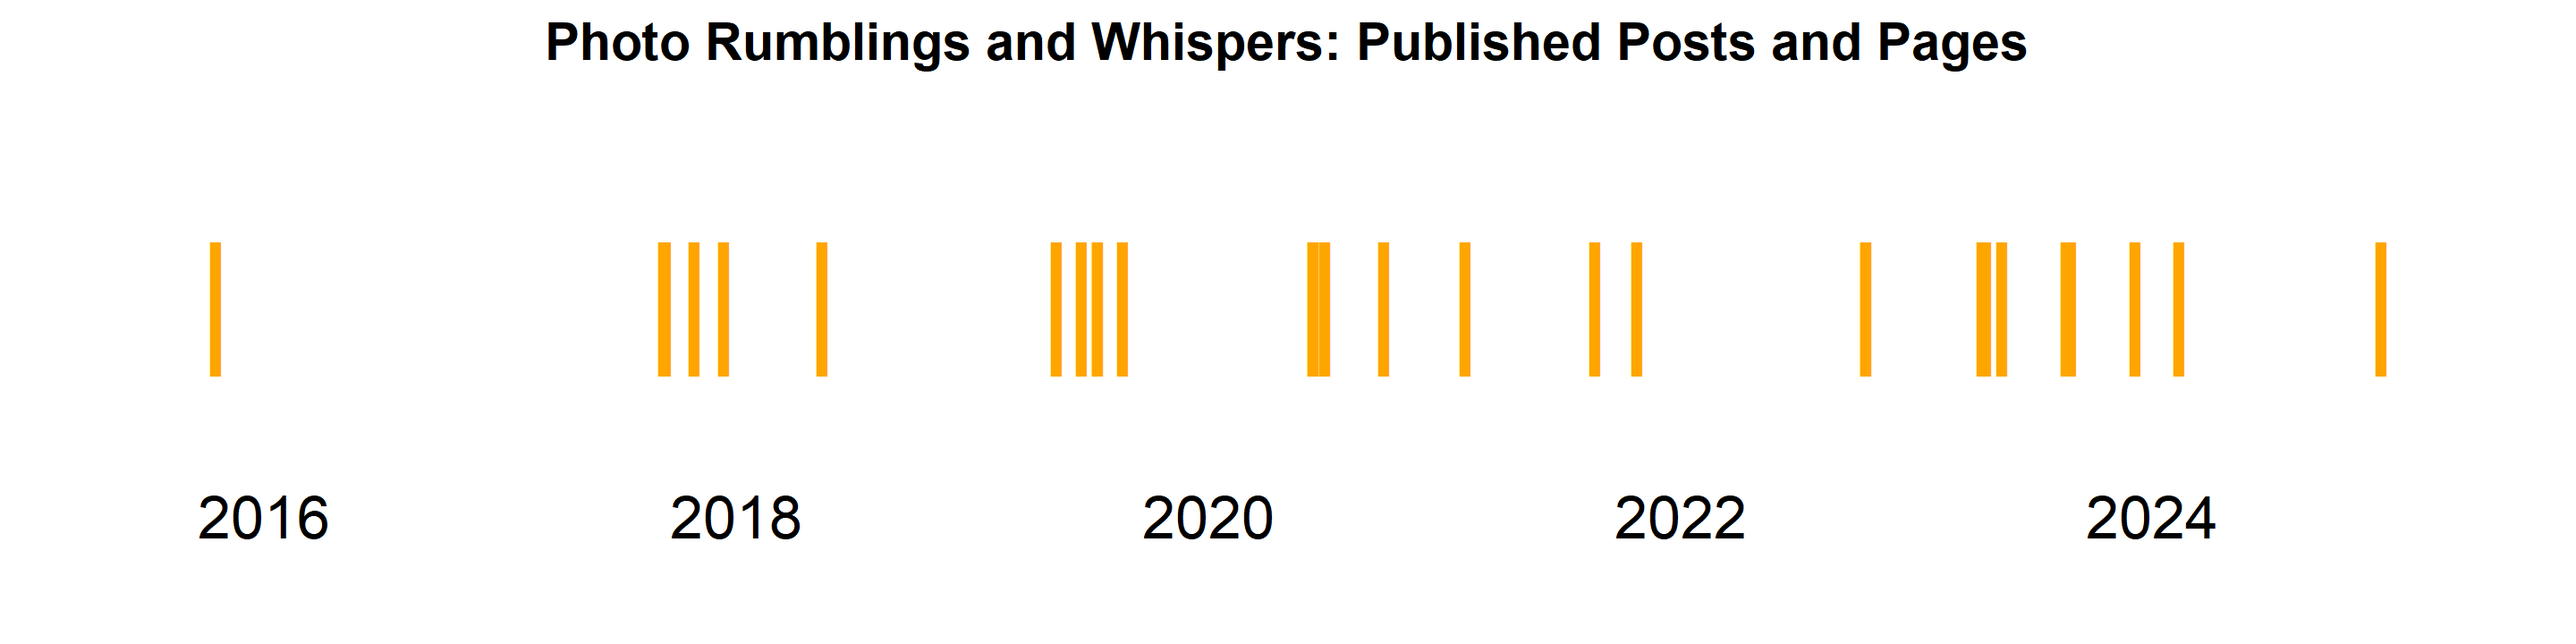
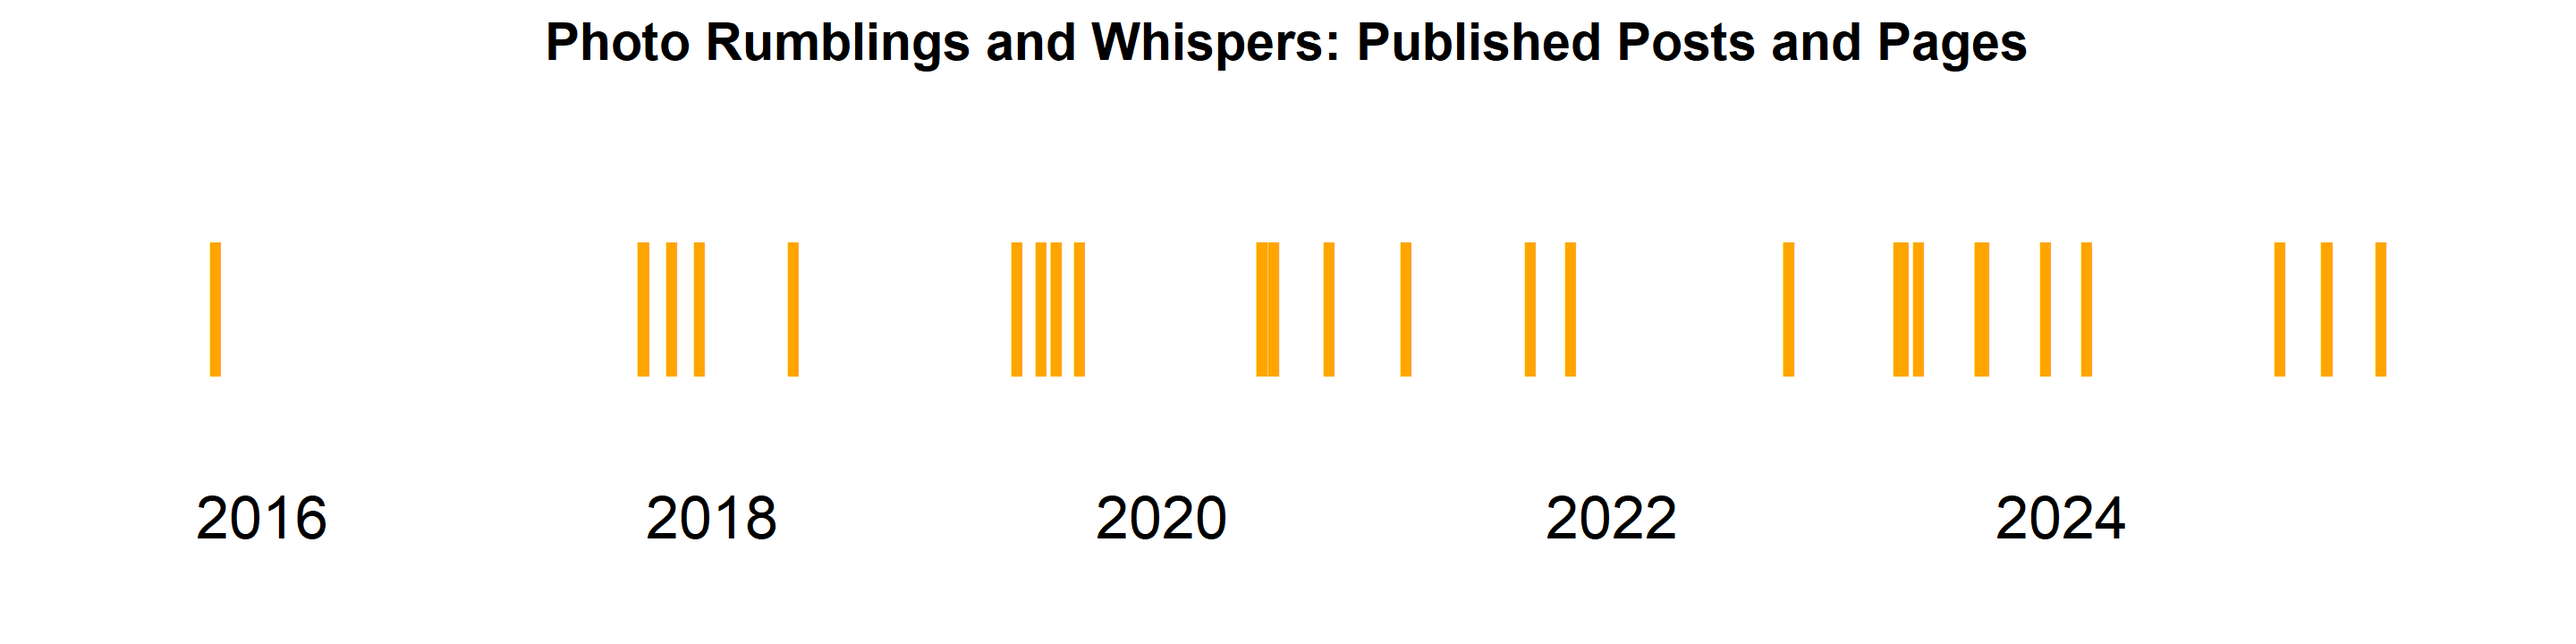
Knit to refresh data

diff --git a/README.md b/README.md
@@ -39,39 +39,41 @@ Language](https://www.learnr-book.info/).
 The sources of the R packages I have published are in public Git
 repositories at GitHub. Out of the packages that I have authored and
 maintain, 15 are currently available through CRAN. The total number of
-package submissions (mostly updates) as author and maintainer is 215
+package submissions (mostly updates) as author and maintainer is 230
 since 2016-01-29.
 
 I have published in CRAN one package update roughly every 15 days, or
-about 1.97 package updates per month, since 2016-01-29.
+about 1.96 package updates per month, since 2016-01-29.
 
-The most recent of these updates was published in CRAN on 2025-01-12.
+The most recent of these updates was published in CRAN on 2025-09-24.
 
 <img src="illustrations/cran-packages-plot-1.png" width="100%" />
 
 <details>
+
 <summary>
+
 📂 Click to expand a list of my packages at CRAN with the most recently
 updated one at the top.
 </summary>
 
 | R package | Title | Version | Date |
 |:---|:---|:---|:---|
-| photobiologyPlants | [Plant Photobiology Related Functions and Data](https://doi.org/10.32614/CRAN.package.photobiologyPlants) | 0.6.0 | 2025-01-12 |
-| SunCalcMeeus | [Sun Position and Daylight Calculations](https://doi.org/10.32614/CRAN.package.SunCalcMeeus) | 0.1.2 | 2025-01-09 |
-| ggspectra | [Extensions to ‘ggplot2’ for Radiation Spectra](https://doi.org/10.32614/CRAN.package.ggspectra) | 0.3.15 | 2025-01-08 |
-| photobiology | [Photobiological Calculations](https://doi.org/10.32614/CRAN.package.photobiology) | 0.11.4 | 2024-11-30 |
-| photobiologyInOut | [Read Spectral and Logged Data from Foreign Files](https://doi.org/10.32614/CRAN.package.photobiologyInOut) | 0.4.29 | 2024-11-22 |
+| ggspectra | [Extensions to ‘ggplot2’ for Radiation Spectra](https://doi.org/10.32614/CRAN.package.ggspectra) | 0.3.17 | 2025-09-24 |
+| photobiologyInOut | [Read Spectral and Logged Data from Foreign Files](https://doi.org/10.32614/CRAN.package.photobiologyInOut) | 0.4.32 | 2025-09-24 |
+| photobiologyLamps | [Spectral Irradiance Data for Lamps](https://doi.org/10.32614/CRAN.package.photobiologyLamps) | 0.5.3 | 2025-09-24 |
+| photobiologyPlants | [Plant Photobiology Related Functions and Data](https://doi.org/10.32614/CRAN.package.photobiologyPlants) | 0.6.1 | 2025-09-24 |
+| photobiologySensors | [Response Data for Light Sensors](https://doi.org/10.32614/CRAN.package.photobiologySensors) | 0.5.2 | 2025-09-24 |
+| SunCalcMeeus | [Sun Position and Daylight Calculations](https://doi.org/10.32614/CRAN.package.SunCalcMeeus) | 0.1.3 | 2025-09-22 |
+| photobiologyWavebands | [Waveband Definitions for UV, VIS, and IR Radiation](https://doi.org/10.32614/CRAN.package.photobiologyWavebands) | 0.5.4 | 2025-09-14 |
+| photobiology | [Photobiological Calculations](https://doi.org/10.32614/CRAN.package.photobiology) | 0.13.2 | 2025-07-31 |
+| ggpmisc | [Miscellaneous Extensions to ‘ggplot2’](https://doi.org/10.32614/CRAN.package.ggpmisc) | 0.6.2 | 2025-07-08 |
+| ggpp | [Grammar Extensions to ‘ggplot2’](https://doi.org/10.32614/CRAN.package.ggpp) | 0.5.9 | 2025-06-28 |
 | gginnards | [Explore the Innards of ‘ggplot2’ Objects](https://doi.org/10.32614/CRAN.package.gginnards) | 0.2.0-1 | 2024-11-14 |
-| ggpmisc | [Miscellaneous Extensions to ‘ggplot2’](https://doi.org/10.32614/CRAN.package.ggpmisc) | 0.6.1 | 2024-11-14 |
-| ggpp | [Grammar Extensions to ‘ggplot2’](https://doi.org/10.32614/CRAN.package.ggpp) | 0.5.8-1 | 2024-07-01 |
 | learnrbook | [Datasets and Code Examples from P. J. Aphalo’s “Learn R” Book](https://doi.org/10.32614/CRAN.package.learnrbook) | 2.0.1 | 2024-04-28 |
 | photobiologySun | [Data for Sunlight Spectra](https://doi.org/10.32614/CRAN.package.photobiologySun) | 0.5.0 | 2024-04-01 |
 | photobiologyFilters | [Spectral Transmittance and Spectral Reflectance Data](https://doi.org/10.32614/CRAN.package.photobiologyFilters) | 0.6.0 | 2024-02-27 |
 | photobiologyLEDs | [Spectral Data for Light-Emitting-Diodes](https://doi.org/10.32614/CRAN.package.photobiologyLEDs) | 0.5.2 | 2023-11-01 |
-| photobiologyLamps | [Spectral Irradiance Data for Lamps](https://doi.org/10.32614/CRAN.package.photobiologyLamps) | 0.5.2 | 2023-10-24 |
-| photobiologySensors | [Response Data for Light Sensors](https://doi.org/10.32614/CRAN.package.photobiologySensors) | 0.5.1 | 2023-10-24 |
-| photobiologyWavebands | [Waveband Definitions for UV, VIS, and IR Radiation](https://doi.org/10.32614/CRAN.package.photobiologyWavebands) | 0.5.2 | 2023-10-24 |
 
 </details>
 
@@ -93,7 +95,7 @@ badge](https://aphalo.r-universe.dev/badges/:packages)](https://aphalo.r-univers
     #> Warning: 1 failed to parse.
 
 The site [R for Photobiology](https://www.r4photobiology.info) contains
-95 posts and pages published since 2016-09-15! I have recently rebuilt
+97 posts and pages published since 2016-09-15! I have recently rebuilt
 the site using Quarto, and I have transferred only some of the posts
 originally published using WordPress. I am slowly adding more old posts,
 but only those that remain relevant. The figure below shows original
@@ -104,24 +106,28 @@ GitHub](https://github.com/aphalo/r4p-blog).
 I have published one post or page roughly every days, or about 0.9 posts
 per month, since 2016-09-15.
 
-I published the most recent post or page 193 days ago, and most recently
-updated a previously published one 6 days ago.
+I published the most recent post or page 220 days ago, and most recently
+updated a previously published one 7 days ago.
 
 <img src="illustrations/r4p-plot-1.png" width="100%" />
 
 <details>
+
 <summary>
+
 📂 Click to expand a full list of posts.
 </summary>
 
 | Date | Updated | Title |
 |:---|:---|:---|
+| 2025-02-16 | 2025-06-29 | [“Animated plots of spectra”](https://www.r4photobiology.info/C:/Users/aphalo/Documents/R-web-blog/r4p-blog/galleries/photobiology/animated-plots-of-spectra.html) |
+| 2025-01-23 | 2025-01-24 | [“Introduction to Mixed Effects Models”](https://www.r4photobiology.info/C:/Users/aphalo/Documents/R-web-blog/r4p-blog/pages/mixed-effects-models-intro.html) |
 | 2024-07-13 | 2024-07-13 | [“R Packages: Timeline of Updates”](https://www.r4photobiology.info/C:/Users/aphalo/Documents/R-web-blog/r4p-blog/pages/CRAN-activity.html) |
 | 2024-07-10 | 2025-01-14 | [“Multichannel LED arrays”](https://www.r4photobiology.info/C:/Users/aphalo/Documents/R-web-blog/r4p-blog/senpep-posts/led-arrays.html) |
 | 2024-06-11 | 2024-07-13 | [“Move from Wordpress to Quarto”](https://www.r4photobiology.info/C:/Users/aphalo/Documents/R-web-blog/r4p-blog/senpep-posts/index.html) |
 | 2024-06-01 | 2024-06-08 | [“Fitted-model labels in Markdown”](https://www.r4photobiology.info/C:/Users/aphalo/Documents/R-web-blog/r4p-blog/galleries/plot-equations-markdown.html) |
 | 2024-05-28 | 2024-05-28 | [“Looking back 40 years”](https://www.r4photobiology.info/C:/Users/aphalo/Documents/R-web-blog/r4p-blog/presentations/research-40-years.html) |
-| 2024-05-16 | 2024-05-22 | [“Is this a polynomial?”](https://www.r4photobiology.info/C:/Users/aphalo/Documents/R-web-blog/r4p-blog/posts/is-this-a-polynomial.html) |
+| 2024-05-16 | 2025-01-23 | [“Is this a polynomial?”](https://www.r4photobiology.info/C:/Users/aphalo/Documents/R-web-blog/r4p-blog/posts/is-this-a-polynomial.html) |
 | 2024-04-17 | 2024-04-17 | [“Annotating Plot Matrices”](https://www.r4photobiology.info/C:/Users/aphalo/Documents/R-web-blog/r4p-blog/galleries/ggally-ggpairs.html) |
 | 2024-02-10 | 2024-02-10 | [“Repository migrated to R-Universe”](https://www.r4photobiology.info/C:/Users/aphalo/Documents/R-web-blog/r4p-blog/posts/web-site-news/move-to-r-universe.html) |
 | 2024-01-13 | 2024-01-19 | [“ooacquire: Spectral Irradiance Algorithms”](https://www.r4photobiology.info/C:/Users/aphalo/Documents/R-web-blog/r4p-blog/pages/ooacquire-algorithms.html) |
@@ -141,7 +147,7 @@ updated a previously published one 6 days ago.
 | 2023-06-25 | 2023-06-26 | [“Fitted-model labels with ggpmisc and plotly”](https://www.r4photobiology.info/C:/Users/aphalo/Documents/R-web-blog/r4p-blog/galleries/plot-interactive.html) |
 | 2023-06-24 | 2023-06-24 | [“Fitted-model labels with ggpmisc and gganimate”](https://www.r4photobiology.info/C:/Users/aphalo/Documents/R-web-blog/r4p-blog/galleries/plot-animation.html) |
 | 2023-06-10 | 2024-08-24 | [“ooacquire \>= 0.4.0”](https://www.r4photobiology.info/C:/Users/aphalo/Documents/R-web-blog/r4p-blog/posts/ooacquire/ooacquire-0.4.x.html) |
-| 2023-06-02 | 2024-09-14 | [“Functional analysis of spectra with photobiology to fda.usc”](https://www.r4photobiology.info/C:/Users/aphalo/Documents/R-web-blog/r4p-blog/galleries/photobiology/functional-data-analysis.html) |
+| 2023-06-02 | 2025-08-06 | [“Functional analysis of spectra with photobiology and fda.usc”](https://www.r4photobiology.info/C:/Users/aphalo/Documents/R-web-blog/r4p-blog/galleries/photobiology/functional-data-analysis.html) |
 | 2023-05-30 | 2023-11-27 | [“Model fitting in R”](https://www.r4photobiology.info/C:/Users/aphalo/Documents/R-web-blog/r4p-blog/pages/R-model-fitting-intro.html) |
 | 2023-05-30 | 2023-11-27 | [“Randomization and independent replicates”](https://www.r4photobiology.info/C:/Users/aphalo/Documents/R-web-blog/r4p-blog/pages/design-exp-intro.html) |
 | 2023-05-28 | 2023-06-11 | [“photobiology 0.10.1x”](https://www.r4photobiology.info/C:/Users/aphalo/Documents/R-web-blog/r4p-blog/posts/photobiology/photobiology-0.10.1x.html) |
@@ -153,7 +159,7 @@ updated a previously published one 6 days ago.
 | 2023-04-27 | 2024-01-11 | [“ooacquire: Spectral Irradiance Measurement”](https://www.r4photobiology.info/C:/Users/aphalo/Documents/R-web-blog/r4p-blog/pages/acq-irrad-tutorial.html) |
 | 2023-04-15 | 2023-08-01 | [“Weather data for Finland from FMI”](https://www.r4photobiology.info/C:/Users/aphalo/Documents/R-web-blog/r4p-blog/galleries/fmi-kumpula.html) |
 | 2023-04-10 | 2023-05-10 | [“ooacquire 0.3.x”](https://www.r4photobiology.info/C:/Users/aphalo/Documents/R-web-blog/r4p-blog/posts/ooacquire/ooacquire-0.3.x.html) |
-| 2023-03-20 | 2024-08-24 | [“OmniDriver, Java and the whims of companies”](https://www.r4photobiology.info/C:/Users/aphalo/Documents/R-web-blog/r4p-blog/pages/OmniDriver-Java.html) |
+| 2023-03-20 | 2025-08-12 | [“OmniDriver, Java and the whims of companies”](https://www.r4photobiology.info/C:/Users/aphalo/Documents/R-web-blog/r4p-blog/pages/OmniDriver-Java.html) |
 | 2023-03-04 | 2024-02-10 | [“R Packages”](https://www.r4photobiology.info/C:/Users/aphalo/Documents/R-web-blog/r4p-blog/pages/packages-status.html) |
 | 2023-02-28 | 2023-02-28 | [“Packages ggpmisc, ggpp and gginnards”](https://www.r4photobiology.info/C:/Users/aphalo/Documents/R-web-blog/r4p-blog/pages/ggpmisc-intro.html) |
 | 2023-02-28 | 2023-12-12 | [“Nudging + repulsion with ggrepel and ggpp”](https://www.r4photobiology.info/C:/Users/aphalo/Documents/R-web-blog/r4p-blog/galleries/nudge-and-repel.html) |
@@ -164,11 +170,11 @@ updated a previously published one 6 days ago.
 | 2023-02-23 | 2025-01-16 | [“ggplot insets with package ggpp”](https://www.r4photobiology.info/C:/Users/aphalo/Documents/R-web-blog/r4p-blog/galleries/plot-insets.html) |
 | 2023-02-20 | 2023-08-07 | [“Handbook on photobiological calculations with R”](https://www.r4photobiology.info/C:/Users/aphalo/Documents/R-web-blog/r4p-blog/pages/r4p-book.html) |
 | 2023-02-20 | 2023-02-20 | [“A handbook of best practice in plant UV photobiology”](https://www.r4photobiology.info/C:/Users/aphalo/Documents/R-web-blog/r4p-blog/pages/beyond-the-visible.html) |
-| 2023-02-19 | 2023-02-19 | [“The R for Photobiology Suite”](https://www.r4photobiology.info/C:/Users/aphalo/Documents/R-web-blog/r4p-blog/pages/r4p-introduction.html) |
+| 2023-02-19 | 2025-03-30 | [“The R for Photobiology Suite”](https://www.r4photobiology.info/C:/Users/aphalo/Documents/R-web-blog/r4p-blog/pages/r4p-introduction.html) |
 | 2023-02-19 | 2024-09-15 | [“Pedro J. Aphalo”](https://www.r4photobiology.info/C:/Users/aphalo/Documents/R-web-blog/r4p-blog/about/pedro.html) |
 | 2023-02-18 | 2023-06-29 | [“R, RStudio and Quarto”](https://www.r4photobiology.info/C:/Users/aphalo/Documents/R-web-blog/r4p-blog/pages/upgrading-R.html) |
 | 2023-02-18 | 2023-07-20 | [“Support”](https://www.r4photobiology.info/C:/Users/aphalo/Documents/R-web-blog/r4p-blog/about/help.html) |
-| 2023-02-15 | 2024-09-15 | [“About this Website”](https://www.r4photobiology.info/C:/Users/aphalo/Documents/R-web-blog/r4p-blog/about/about.html) |
+| 2023-02-15 | 2025-08-12 | [“About this Website”](https://www.r4photobiology.info/C:/Users/aphalo/Documents/R-web-blog/r4p-blog/about/about.html) |
 | 2023-02-03 | 2023-10-21 | [“ggspectra \>= 0.3.10”](https://www.r4photobiology.info/C:/Users/aphalo/Documents/R-web-blog/r4p-blog/posts/ggspectra/ggspectra-0.3.10.html) |
 | 2023-01-05 | 2023-01-05 | [“photobiologyWavebands 0.5.1”](https://www.r4photobiology.info/C:/Users/aphalo/Documents/R-web-blog/r4p-blog/posts/photobiologyWavebands/photobiologyWavebands-0.5.1.html) |
 | 2023-01-05 | 2023-01-05 | [“photobiology 0.10.15”](https://www.r4photobiology.info/C:/Users/aphalo/Documents/R-web-blog/r4p-blog/posts/photobiology/photobiology-0.10.15.html) |
@@ -198,7 +204,7 @@ updated a previously published one 6 days ago.
 | 2022-04-16 | 2022-04-16 | [“ggspectra 0.3.8”](https://www.r4photobiology.info/C:/Users/aphalo/Documents/R-web-blog/r4p-blog/posts/ggspectra/ggspectra-0.3.8.html) |
 | 2022-01-30 | 2024-07-10 | [“Instrumentation”](https://www.r4photobiology.info/C:/Users/aphalo/Documents/R-web-blog/r4p-blog/senpep-posts/instrumentation.html) |
 | 2022-01-30 | 2024-07-10 | [“Controlled Environment Chambers”](https://www.r4photobiology.info/C:/Users/aphalo/Documents/R-web-blog/r4p-blog/senpep-posts/chambers.html) |
-| 2022-01-29 | 2024-11-30 | [“LED-based light sources”](https://www.r4photobiology.info/C:/Users/aphalo/Documents/R-web-blog/r4p-blog/senpep-posts/light-sources.html) |
+| 2022-01-29 | 2025-09-17 | [“LED-based light sources”](https://www.r4photobiology.info/C:/Users/aphalo/Documents/R-web-blog/r4p-blog/senpep-posts/light-sources.html) |
 | 2021-10-20 | 2024-06-11 | [“What is plant intelligence? and what it is not?”](https://www.r4photobiology.info/C:/Users/aphalo/Documents/R-web-blog/r4p-blog/senpep-posts/plant-intelligence.html) |
 | 2021-10-17 | 2024-07-11 | [“Sensing of solar UVA by plants”](https://www.r4photobiology.info/C:/Users/aphalo/Documents/R-web-blog/r4p-blog/senpep-posts/UVR8-in-solar-UVA.html) |
 | 2021-10-17 | 2024-07-12 | [“Cryptochromes and stomatal opening”](https://www.r4photobiology.info/C:/Users/aphalo/Documents/R-web-blog/r4p-blog/senpep-posts/fang-stomata.html) |
@@ -217,7 +223,7 @@ updated a previously published one 6 days ago.
 ## Posts and pages at [Photo Rumblings and Whispers](https://www.photo-spectrum.info/)
 
 The [Photo Rumblings and Whispers](https://www.photo-spectrum.info/) has
-32 posts since 2015-10-18! I have recently rebuilt the site using
+35 posts since 2015-10-18! I have recently rebuilt the site using
 Quarto, and I have transferred most of the posts originally published
 using WordPress. I may add one or two old posts. The figure below shows
 original publication date even when posts and pages have been later
@@ -228,32 +234,37 @@ repository at GitHub](https://github.com/aphalo/photo-spectrum-blog).
 I have published one post or page roughly every days, or about 0.3 posts
 per month, since 2015-10-18.
 
-I published the most recent post or page 33 days ago.
+I published the most recent post or page 114 days ago.
 
 <img src="illustrations/photo-plot-1.png" width="100%" />
 
 <details>
+
 <summary>
+
 📂 Click to expand a full list of posts.
 </summary>
 
 | Date | Updated | Title |
 |:---|:---|:---|
+| 2025-06-02 | 2025-06-03 | [“Spectral Imaging”](https://www.photo-spectrum.info/C:/Users/aphalo/Documents/R-web-blog/photo-spectrum-blog/pages/illumination/spectral-imaging.html) |
+| 2025-03-07 | 2025-03-30 | [“NIR Sources for Photography”](https://www.photo-spectrum.info/C:/Users/aphalo/Documents/R-web-blog/photo-spectrum-blog/pages/illumination/NIR-sources.html) |
+| 2025-03-06 | 2025-03-28 | [“Mechanic LS720 Ring Lamp”](https://www.photo-spectrum.info/C:/Users/aphalo/Documents/R-web-blog/photo-spectrum-blog/pages/illumination/Mechanic-LS720.html) |
 | 2024-12-20 | 2024-12-20 | [“Camera spectral response”](https://www.photo-spectrum.info/C:/Users/aphalo/Documents/R-web-blog/photo-spectrum-blog/pages/camera-spectral-response/E-M1-fs-spectral-response.html) |
 | 2024-02-11 | 2024-11-15 | [“The nitty-gritty details of macrophotography”](https://www.photo-spectrum.info/C:/Users/aphalo/Documents/R-web-blog/photo-spectrum-blog/pages/cameras/OM1-focus-bracketing.html) |
-| 2023-12-05 | 2023-12-05 | [“PWM dimming and digital photography”](https://www.photo-spectrum.info/C:/Users/aphalo/Documents/R-web-blog/photo-spectrum-blog/pages/illumination/PWM-banding-readout.html) |
-| 2023-08-28 | 2023-08-28 | [“Photographing Insects: Lenses”](https://www.photo-spectrum.info/C:/Users/aphalo/Documents/R-web-blog/photo-spectrum-blog/pages/lenses/lenses-for-insects.html) |
+| 2023-12-05 | 2025-03-07 | [“PWM dimming and digital photography”](https://www.photo-spectrum.info/C:/Users/aphalo/Documents/R-web-blog/photo-spectrum-blog/pages/illumination/PWM-banding-readout.html) |
+| 2023-08-28 | 2025-05-30 | [“Photographing Insects: Lenses”](https://www.photo-spectrum.info/C:/Users/aphalo/Documents/R-web-blog/photo-spectrum-blog/pages/lenses/lenses-for-insects.html) |
 | 2023-08-22 | 2023-08-22 | [“WordPress -\> Quarto”](https://www.photo-spectrum.info/C:/Users/aphalo/Documents/R-web-blog/photo-spectrum-blog/posts/year-2023/wp2quarto.html) |
 | 2023-08-21 | 2023-08-21 | [“Pedro J. Aphalo”](https://www.photo-spectrum.info/C:/Users/aphalo/Documents/R-web-blog/photo-spectrum-blog/about/pedro.html) |
 | 2023-05-13 | 2023-05-13 | [“Flexible and oversized lens hoods”](https://www.photo-spectrum.info/C:/Users/aphalo/Documents/R-web-blog/photo-spectrum-blog/pages/lenshoods/oversized-lens-hoods.html) |
-| 2023-04-18 | 2023-04-21 | [“About this Website”](https://www.photo-spectrum.info/C:/Users/aphalo/Documents/R-web-blog/photo-spectrum-blog/about/about.html) |
+| 2023-04-18 | 2025-05-30 | [“About this Website”](https://www.photo-spectrum.info/C:/Users/aphalo/Documents/R-web-blog/photo-spectrum-blog/about/about.html) |
 | 2023-04-15 | 2023-05-10 | [“UV short-pass filter stacks”](https://www.photo-spectrum.info/C:/Users/aphalo/Documents/R-web-blog/photo-spectrum-blog/pages/filters/UV-filter-stacks.html) |
 | 2023-04-14 | 2024-02-20 | [“UV short-pass filters”](https://www.photo-spectrum.info/C:/Users/aphalo/Documents/R-web-blog/photo-spectrum-blog/pages/filters/UV-filters.html) |
-| 2023-04-12 | 2024-11-07 | [“Notes on the OM-1 (digital) camera”](https://www.photo-spectrum.info/C:/Users/aphalo/Documents/R-web-blog/photo-spectrum-blog/pages/cameras/OM1-notes.html) |
-| 2022-10-15 | 2023-12-04 | [“Small fill/video LED lights revisited”](https://www.photo-spectrum.info/C:/Users/aphalo/Documents/R-web-blog/photo-spectrum-blog/pages/illumination/led-fill-lights-2.html) |
+| 2023-04-12 | 2025-03-07 | [“Notes on the OM-1 (digital) camera”](https://www.photo-spectrum.info/C:/Users/aphalo/Documents/R-web-blog/photo-spectrum-blog/pages/cameras/OM1-notes.html) |
+| 2022-10-15 | 2025-03-06 | [“Small fill/video LED lights”](https://www.photo-spectrum.info/C:/Users/aphalo/Documents/R-web-blog/photo-spectrum-blog/pages/illumination/led-fill-lights-2.html) |
 | 2022-10-15 | 2025-01-12 | [“UV-A-Induced VIS Fluorescence—Methods”](https://www.photo-spectrum.info/C:/Users/aphalo/Documents/R-web-blog/photo-spectrum-blog/pages/fluorescence/uvaivf-methods.html) |
 | 2021-10-25 | 2023-04-20 | [“Broad band VIS+NIR LEDs”](https://www.photo-spectrum.info/C:/Users/aphalo/Documents/R-web-blog/photo-spectrum-blog/pages/illumination/vis-nir-led.html) |
-| 2021-08-21 | 2024-12-21 | [“Photo Rumblings and Whispers”](https://www.photo-spectrum.info/C:/Users/aphalo/Documents/R-web-blog/photo-spectrum-blog/index.html) |
+| 2021-08-21 | 2021-08-21 | [“Photo Rumblings and Whispers”](https://www.photo-spectrum.info/C:/Users/aphalo/Documents/R-web-blog/photo-spectrum-blog/index.html) |
 | 2021-02-01 | 2023-04-14 | [“NIR long-pass filters”](https://www.photo-spectrum.info/C:/Users/aphalo/Documents/R-web-blog/photo-spectrum-blog/pages/filters/NIR-filters.html) |
 | 2020-09-29 | 2023-04-21 | [“Hemispherical time-lapse under a tree”](https://www.photo-spectrum.info/C:/Users/aphalo/Documents/R-web-blog/photo-spectrum-blog/pages/time-lapse/time-lapse-under-a-tree.html) |
 | 2020-06-30 | 2023-04-18 | [“Lens Adapter with Filter Drawer”](https://www.photo-spectrum.info/C:/Users/aphalo/Documents/R-web-blog/photo-spectrum-blog/pages/lens-adapters/OWL-lens-adapter.html) |
@@ -274,7 +285,7 @@ I published the most recent post or page 33 days ago.
 
 </details>
 
-*Updated 2025-01-22 23:09:42.700824*
+*Updated 2025-09-24 23:22:40.634714*
 
 This README file is based on the [blog post by Athanasia Mo
 Mowinckel](https://drmowinckels.io/blog/2024/github-profile/) and the [R
